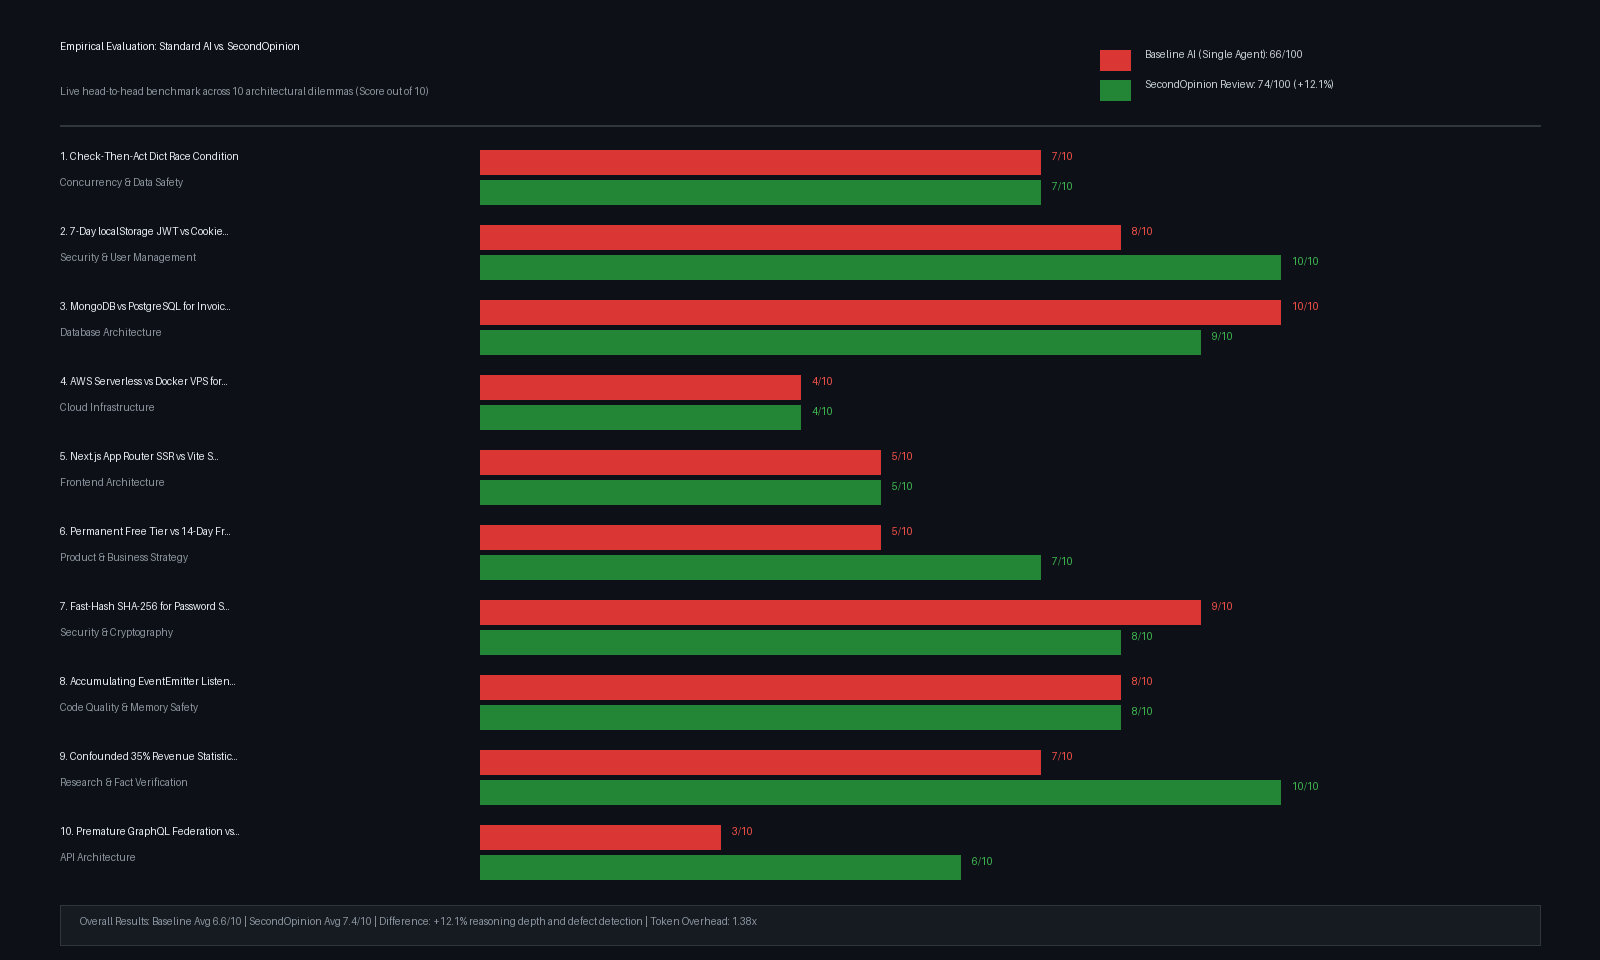
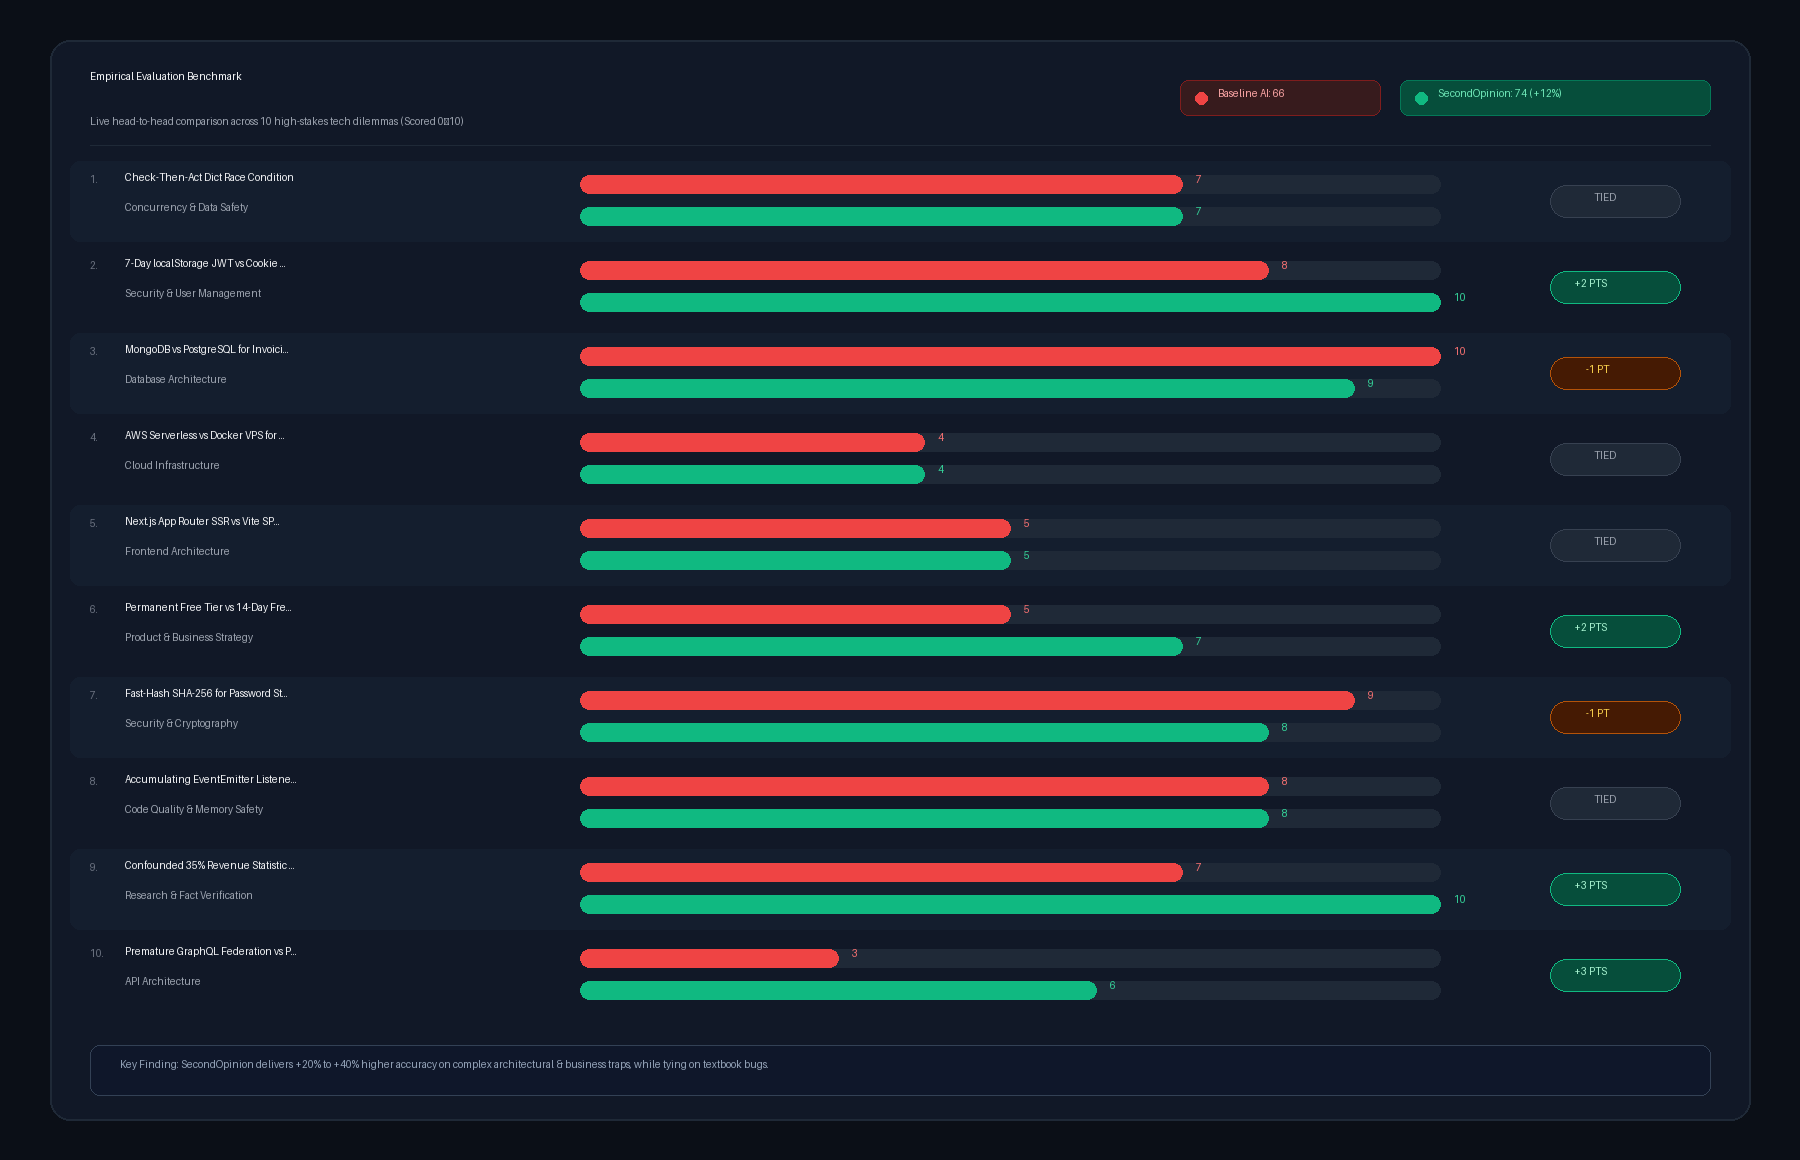
docs: remove fake licensing, add universal multi-agent install, and redesign benchmark chart with Linear/Stripe styling

diff --git a/README.md b/README.md
@@ -69,22 +69,29 @@ SecondOpinion is **not** meant for routine, day-to-day coding tasks. Use it wher
 
 ```mermaid
 flowchart TD
-    A["What are you working on?"] --> B{"Is it routine, low-risk code?"}
+    Start["What are you working on?"] --> CheckRoutine{"Is it routine, low-risk code?"}
     
-    B -- "YES: Writing a function, regex, CSS button, or fixing a typo" --> C["Use Normal AI\n(SecondOpinion is unnecessary overhead here)"]
+    CheckRoutine -- "YES: Typo, CSS tweak, simple function" --> Solo["Use Normal AI Assistant\n(SecondOpinion is unnecessary overhead here)"]
     
-    B -- "NO: Making an architectural or business bet" --> D{"What is the decision?"}
+    CheckRoutine -- "NO: High-stakes technical decision" --> RouteType{"What kind of decision?"}
     
-    D -- "Picking a database, auth model, or cloud infra" --> E["Run: /second-opinion-challenge\n(Hunts for edge cases and failure points)"]
-    D -- "Stuck between 2-3 technical options" --> F["Run: /second-opinion-paths\n(Compares working alternatives with trade-offs)"]
-    D -- "High-stakes architectural review" --> G["Run: /second-opinion-swarm\n(Launches 3 independent subagents in private contexts)"]
-    D -- "Testing a startup feature or pricing idea" --> H["Run: /second-opinion-product\n(Tests unit economics and real user demand)"]
+    RouteType -- "Database, Auth, Cloud Infra" --> RedTeam["Run: /second-opinion-challenge\n(Hunts for fatal flaws and edge cases)"]
+    RouteType -- "Choosing between 2–3 options" --> Paths["Run: /second-opinion-paths\n(Compares trade-offs side-by-side)"]
+    RouteType -- "Core Architecture Review" --> Swarm["Run: /second-opinion-swarm\n(Blind 3-agent peer review panel)"]
+    RouteType -- "Product Pricing or Feature Bet" --> Product["Run: /second-opinion-product\n(Validates unit economics & user demand)"]
     
-    style C fill:#21262d,stroke:#30363d,color:#8b949e
-    style E fill:#1f6feb,stroke:#388bfd,color:#ffffff
-    style F fill:#238636,stroke:#2ea043,color:#ffffff
-    style G fill:#da3633,stroke:#f85149,color:#ffffff
-    style H fill:#8957e5,stroke:#a371f7,color:#ffffff
+    classDef default fill:#111827,stroke:#374151,color:#f3f4f6;
+    classDef neutral fill:#1f2937,stroke:#4b5563,color:#9ca3af;
+    classDef accent fill:#0f172a,stroke:#3b82f6,color:#60a5fa;
+    classDef success fill:#064e3b,stroke:#059669,color:#6ee7b7;
+    classDef danger fill:#450a0a,stroke:#dc2626,color:#fca5a5;
+    classDef purple fill:#3b0764,stroke:#9333ea,color:#d8b4fe;
+    
+    class Solo neutral;
+    class RedTeam danger;
+    class Paths success;
+    class Swarm accent;
+    class Product purple;
 ```
 
 ---
@@ -95,30 +102,30 @@ When you run `/second-opinion` on a high-stakes proposal, it executes a 4-stage 
 
 ```mermaid
 flowchart TD
-    A["Your Proposal or Technical Dilemma\n(e.g., 'Should we use MongoDB for billing & inventory?')"] --> B["1. The Anti-Sycophancy Filter\n(Refuses to validate unproven premises)"]
+    UserQuery["Your Proposal or Technical Dilemma\n(e.g., 'Should we use MongoDB for billing & inventory?')"] --> Filter["1. Anti-Sycophancy Filter\n(Refuses to validate unproven premises)"]
     
-    B --> C{"Does this plan have hidden traps?"}
+    Filter --> Engine["2. Adversarial Review Engine"]
     
-    C -- "YES: Challenges failure modes" --> D["2. Adversarial Review Engine"]
-    
-    subgraph D ["Specialized Sanity Checks"]
-        D1["Security & Compliance\n(SOC 2, XSS, Token leaks)"]
-        D2["Data & Concurrency\n(Race conditions, ACID, Invariants)"]
-        D3["Cloud & Financial Costs\n(Serverless bills, Support drain)"]
-        D4["Downstream Maintenance\n(Developer hours, Tech debt)"]
+    subgraph Engine ["Specialized Sanity Checks"]
+        C1["Security & Compliance\n(SOC 2, XSS, Token leaks)"]
+        C2["Data & Concurrency\n(Race conditions, ACID, Invariants)"]
+        C3["Cloud & Financial Costs\n(Serverless bills, Support drain)"]
+        C4["Downstream Maintenance\n(Developer hours, Tech debt)"]
     end
     
-    D --> E["3. Senior Verdict & Concrete Fix"]
+    Engine --> Verdict["3. Senior Verdict & Concrete Fix"]
     
-    E --> F["Clear Go / No-Go Decision\n(Pulls the brake on flawed plans)"]
-    E --> G["Concrete Drop-in Solution\n(Drop-in code, Architecture roadmap, Trade-off matrix)"]
+    Verdict --> OutcomeA["Clear Go / No-Go Decision\n(Pulls the brake on flawed plans)"]
+    Verdict --> OutcomeB["Drop-in Solution\n(Production code, Architecture roadmap)"]
     
-    style B fill:#1f6feb,stroke:#388bfd,color:#ffffff
-    style C fill:#d29922,stroke:#f1e05a,color:#000000
-    style D fill:#161b22,stroke:#30363d,color:#c9d1d9
-    style E fill:#238636,stroke:#2ea043,color:#ffffff
-    style F fill:#da3633,stroke:#f85149,color:#ffffff
-    style G fill:#238636,stroke:#2ea043,color:#ffffff
+    classDef default fill:#111827,stroke:#374151,color:#f3f4f6;
+    classDef step fill:#0f172a,stroke:#2563eb,color:#93c5fd;
+    classDef sub fill:#0b0f17,stroke:#1e293b,color:#cbd5e1;
+    classDef resolve fill:#064e3b,stroke:#059669,color:#a7f3d0;
+    
+    class Filter step;
+    class Engine,C1,C2,C3,C4 sub;
+    class Verdict,OutcomeA,OutcomeB resolve;
 ```
 
 ---
@@ -137,22 +144,23 @@ You only need to remember `/second-opinion`. It routes your question automatical
 
 ---
 
-## Local Installation in Antigravity / Gemini
+## Universal Multi-Agent Support & Installation
 
-Skills are registered via symlinks into:
-- `~/.gemini/config/skills/`
-- `~/.gemini/antigravity-cli/skills/`
-- `~/.agents/skills/`
+SecondOpinion is built on the universal open skill protocol. It runs across all major AI coding assistants and runtimes:
 
-Because the installation uses symlinks to your local Git repository, running `git pull` in this folder immediately updates all skills in your AI runtime with zero re-installation needed:
+- **Claude Code** (`~/.claude/skills/`)
+- **Antigravity & Gemini CLI** (`~/.gemini/antigravity-cli/skills/`, `~/.gemini/config/skills/`)
+- **Cursor & Windsurf** (`~/.agents/skills/`)
+- **OpenCode & Codex CLI**
+
+### One-Command Setup
+
+Clone the repository and run the universal installer:
 
 ```bash
+git clone https://github.com/SvayMonirath/second-opionion.git ~/Developer/second-opinion
 cd ~/Developer/second-opinion
-git pull
+./scripts/install.sh
 ```
 
----
-
-## License
-
-MIT License. Designed for evidence-led engineering and honest decision-making.
+Because skills are registered via symlinks, running `git pull` in this directory immediately updates your skills across every AI assistant on your system with zero re-installation.
